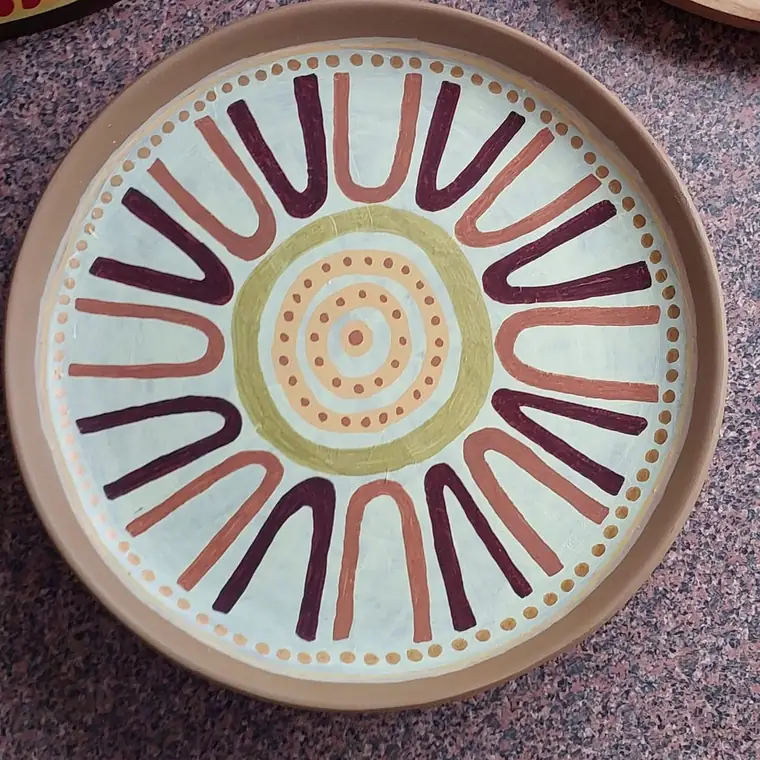
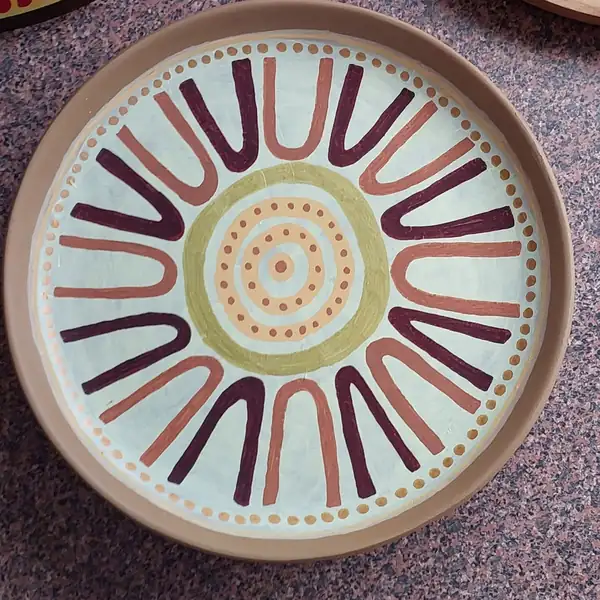
Compress images
Claude-Session: https://claude.ai/code/session_0125gxzjauBeGXUfUEbr3J6k

diff --git a/index.html b/index.html
@@ -61,7 +61,7 @@
     <figure class="hero-art">
       <picture>
         
-        <img src="/assets/art-sunrise.webp" width="760" height="760" alt="Hand-painted circular artwork by Merilyn Duff: a sun rising over a winding river, with wildflowers, gum leaves and dotted borders in orange, ochre and pink." fetchpriority="high">
+        <img src="/assets/art-sunrise.webp" width="600" height="600" alt="Hand-painted circular artwork by Merilyn Duff: a sun rising over a winding river, with wildflowers, gum leaves and dotted borders in orange, ochre and pink." fetchpriority="high">
       </picture>
       <figcaption>Artwork by Merilyn Duff</figcaption>
     </figure>
@@ -79,7 +79,7 @@
     <figure class="about-art">
       <picture>
         
-        <img src="/assets/art-gathering.webp" width="760" height="760" loading="lazy" alt="Painted ceramic tray by Merilyn Duff with a central dotted circle surrounded by a ring of U-shapes in plum and terracotta.">
+        <img src="/assets/art-gathering.webp" width="600" height="600" loading="lazy" alt="Painted ceramic tray by Merilyn Duff with a central dotted circle surrounded by a ring of U-shapes in plum and terracotta.">
       </picture>
     </figure>
     <div>
@@ -167,13 +167,13 @@
     </div>
     <div class="gallery">
       <button class="art-tile" data-full="/assets/art-sunrise.webp" data-alt="Sun rising over a winding river with wildflowers and gum leaves.">
-        <picture><img src="/assets/art-sunrise.webp" width="760" height="760" loading="lazy" alt="Sun rising over a winding river with wildflowers and gum leaves."></picture>
+        <picture><img src="/assets/art-sunrise.webp" width="600" height="600" loading="lazy" alt="Sun rising over a winding river with wildflowers and gum leaves."></picture>
       </button>
       <button class="art-tile" data-full="/assets/art-river.webp" data-alt="Pink-washed timber tray with four pastel arches and a blue wave.">
-        <picture><img src="/assets/art-river.webp" width="760" height="760" loading="lazy" alt="Pink-washed timber tray with four pastel arches and a blue wave."></picture>
+        <picture><img src="/assets/art-river.webp" width="600" height="600" loading="lazy" alt="Pink-washed timber tray with four pastel arches and a blue wave."></picture>
       </button>
       <button class="art-tile" data-full="/assets/art-gathering.webp" data-alt="Ceramic tray with a central dotted circle ringed by plum and terracotta U-shapes.">
-        <picture><img src="/assets/art-gathering.webp" width="760" height="760" loading="lazy" alt="Ceramic tray with a central dotted circle ringed by plum and terracotta U-shapes."></picture>
+        <picture><img src="/assets/art-gathering.webp" width="600" height="600" loading="lazy" alt="Ceramic tray with a central dotted circle ringed by plum and terracotta U-shapes."></picture>
       </button>
     </div>
     <div class="art-cta">
